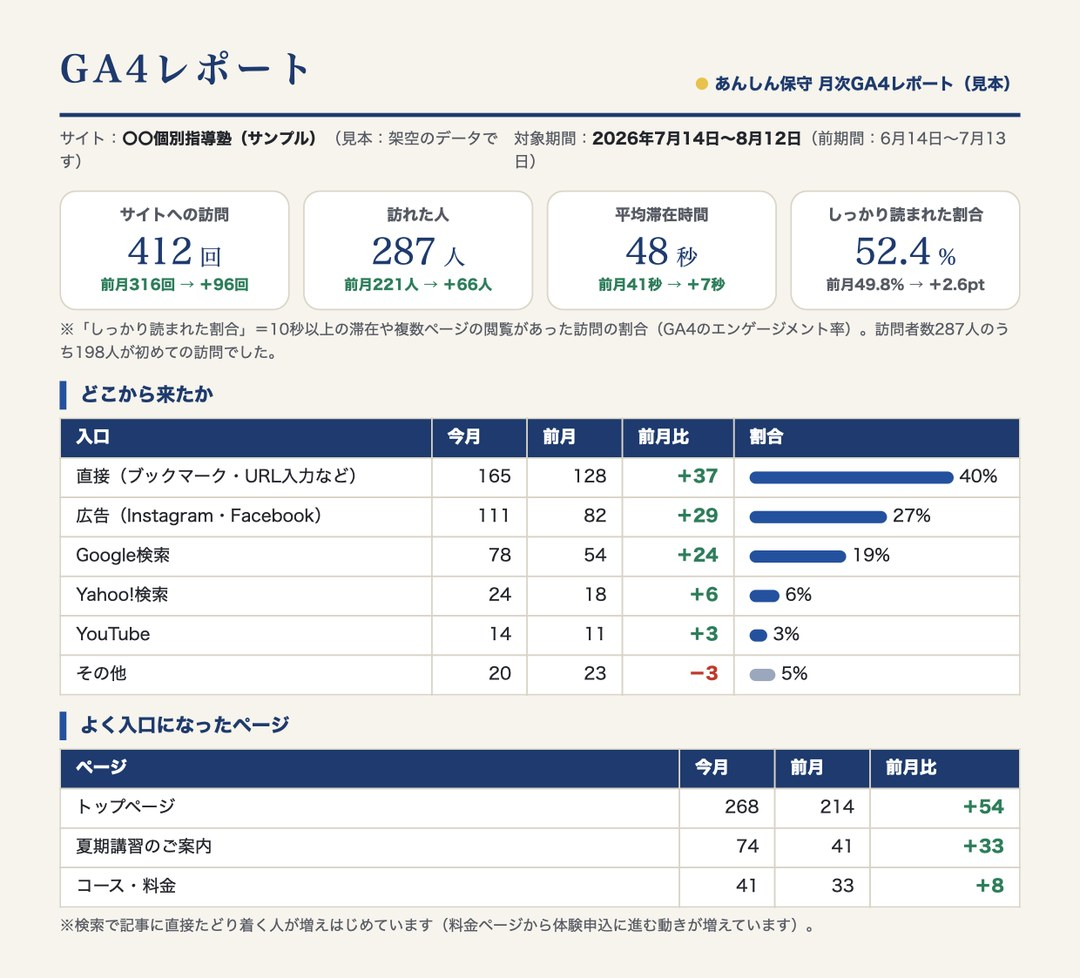
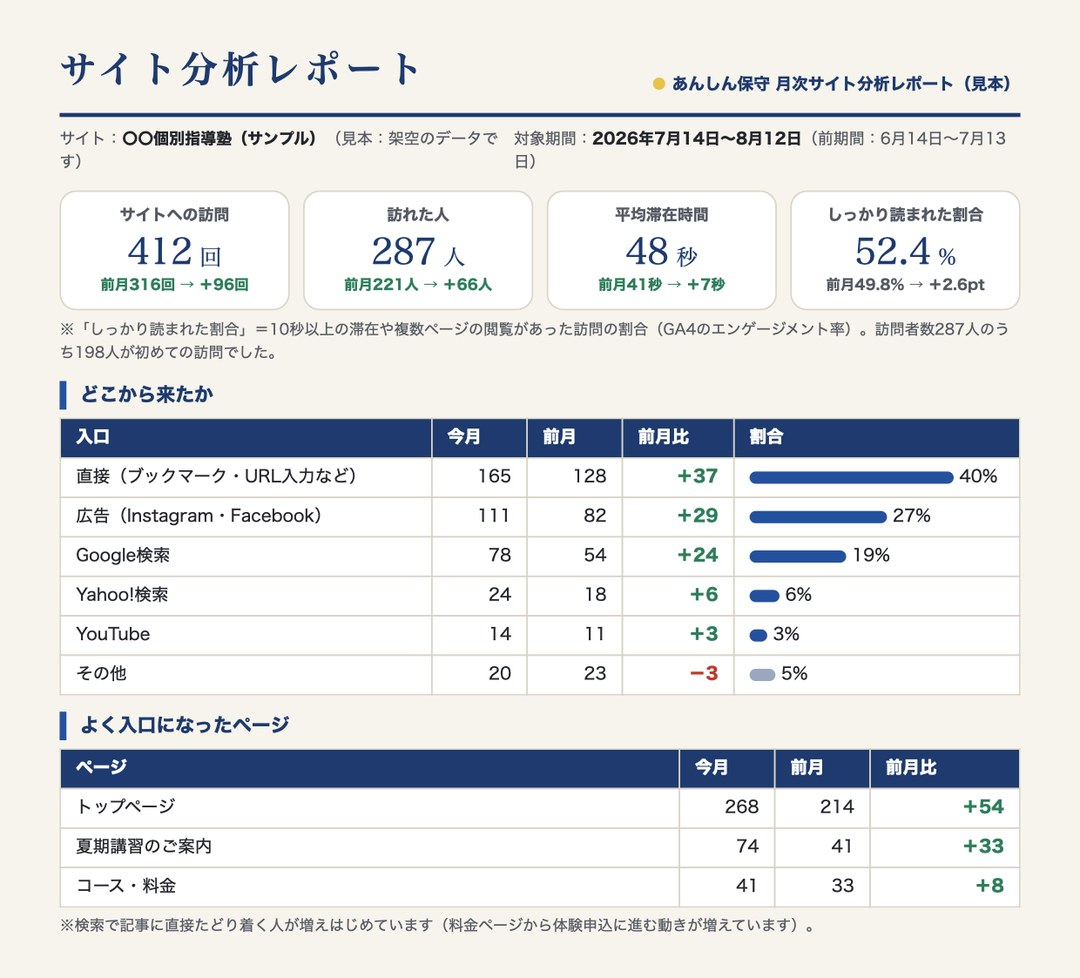
change: AI検索対策（AIO）を独立ブロックにし、レポート名を「サイト分析レポート」に
サービス
- 03 に「AI検索対策（AIO）」を新設し、MEOと並列にした。
  02 Googleマップ対策（MEO）は元の内容に戻し、AIの話は03へ分離
- 04 公式LINE／05 AI活用 へ番号を繰り下げ。4項目になったので2×2グリッドに
- 「4つのサービス」という表現は、増減のたびに直しが要るので数に依存しない
  言い方へ変更。①の説明も「マップとAIで見つかる」に更新

呼称
- 「GA4レポート」は伝わらない可能性があるため「サイト分析レポート」に統一。
  料金カード・FAQ・構造化データ・見本画像の中身まで揃えた
- 「アクセス解析（GA4）の設定」は設定作業の話なので、そのまま残した

フォーム（Formspree mlgqoqaz・name属性13個）とGA4・Meta Pixelは変更なし。

Changed region(s): [[0.0611, 0.0307, 0.3361, 0.092], [0.6111, 0.0613, 0.825, 0.092], [0.3667, 0.0613, 0.3972, 0.092]]

diff --git a/index.html b/index.html
@@ -59,7 +59,7 @@
       "name": "ホームページ制作だけの依頼もできますか？",
       "acceptedAnswer": {
         "@type": "Answer",
-        "text": "はい、可能です。基本商品のスマ塾HP制作（既存HPリニューアル5万円〜／新規立ち上げ10万円・税別・買い切り・月額保守費0円）で、ホームページ制作のみのご依頼を承っています。Googleマップ対策・公式LINE・AI活用は、必要になったタイミングで追加できます。"
+        "text": "はい、可能です。基本商品のスマ塾HP制作（既存HPリニューアル5万円〜／新規立ち上げ10万円・税別・買い切り・月額保守費0円）で、ホームページ制作のみのご依頼を承っています。Googleマップ対策・AI検索対策・公式LINE・AI活用は、必要になったタイミングで追加できます。"
       }
     },
     {
@@ -75,7 +75,7 @@
       "name": "公開後のサポートはありますか？",
       "acceptedAnswer": {
         "@type": "Answer",
-        "text": "公開後30日間は、表示の不具合など制作に起因する修正を無償で承ります。それ以降は、月額1,980円（税別）の「あんしん保守」で、毎月のGA4レポート・ドメイン更新の代行・毎日の死活監視・月次バックアップ・軽微な修正（月1回・15分以内）を継続してお引き受けします。大きめの改修は、都度お見積りいたします。あんしん保守は任意です。ご利用がなくても、ホームページの機能はそのままお使いいただけます。"
+        "text": "公開後30日間は、表示の不具合など制作に起因する修正を無償で承ります。それ以降は、月額1,980円（税別）の「あんしん保守」で、毎月のサイト分析レポート・ドメイン更新の代行・毎日の死活監視・月次バックアップ・軽微な修正（月1回・15分以内）を継続してお引き受けします。大きめの改修は、都度お見積りいたします。あんしん保守は任意です。ご利用がなくても、ホームページの機能はそのままお使いいただけます。"
       }
     },
     {
@@ -88,10 +88,10 @@
     },
     {
       "@type": "Question",
-      "name": "Googleマップ対策（MEO）では何をしてもらえますか？",
+      "name": "Googleマップ対策（MEO）・AI検索対策では何をしてもらえますか？",
       "acceptedAnswer": {
         "@type": "Answer",
-        "text": "Googleビジネスプロフィールの初期整備（塾名・住所・営業時間・写真・カテゴリの最適化）、ホームページとの情報統一、口コミを集める導線づくり、投稿の運用サポートを行います。「地域名＋塾」で探す保護者に見つけてもらうための土台を整えます。"
+        "text": "Googleビジネスプロフィールの初期整備（塾名・住所・営業時間・写真・カテゴリの最適化）、ホームページとの情報統一、口コミを集める導線づくり、投稿の運用サポートを行います。あわせて、ChatGPTなどのAI検索で塾の情報が正しく読み取られるよう、料金・対象学年・住所・営業時間を文字として明示する整理と、AI検索での見え方の定期確認も行います。「地域名＋塾」で探す保護者にも、AIに聞く保護者にも見つけてもらうための土台を整えます。"
       }
     },
     {
@@ -118,7 +118,7 @@
   "@context": "https://schema.org",
   "@type": "ProfessionalService",
   "name": "スマ塾",
-  "description": "個人塾・地域密着塾専門のWeb支援サービス。ホームページ制作・Googleマップ対策（MEO）・公式LINE・AI活用をまとめて支援します。",
+  "description": "個人塾・地域密着塾専門のWeb支援サービス。ホームページ制作・Googleマップ対策（MEO）・AI検索対策（AIO）・公式LINE・AI活用をまとめて支援します。",
   "url": "https://smart-juku.syuni.jp/",
   "image": "https://smart-juku.syuni.jp/assets/ogp.png",
   "areaServed": "JP",
@@ -130,7 +130,7 @@
   },
   "offers": [
     { "@type": "Offer", "name": "スマ塾HP制作", "priceCurrency": "JPY", "price": "50000", "priceSpecification": { "@type": "PriceSpecification", "valueAddedTaxIncluded": false }, "description": "買い切り・月額保守費0円。既存HPリニューアル5万円〜／新規立ち上げ10万円（税別）。管理画面から塾自身が更新できます。" },
-    { "@type": "Offer", "name": "あんしん保守", "priceCurrency": "JPY", "price": "1980", "priceSpecification": { "@type": "PriceSpecification", "valueAddedTaxIncluded": false }, "description": "月額1,980円（税別）・任意の追加サービス。毎月のGA4レポート、ドメイン更新の代行と期限管理、毎日の死活監視（表示・SSL）、月次バックアップ、軽微な修正の代行（月1回・15分以内）、不具合時の優先対応。" },
+    { "@type": "Offer", "name": "あんしん保守", "priceCurrency": "JPY", "price": "1980", "priceSpecification": { "@type": "PriceSpecification", "valueAddedTaxIncluded": false }, "description": "月額1,980円（税別）・任意の追加サービス。毎月のサイト分析レポート、ドメイン更新の代行と期限管理、毎日の死活監視（表示・SSL）、月次バックアップ、軽微な修正の代行（月1回・15分以内）、不具合時の優先対応。" },
     { "@type": "Offer", "name": "集客原稿サポート", "priceCurrency": "JPY", "price": "9800", "priceSpecification": { "@type": "PriceSpecification", "valueAddedTaxIncluded": false }, "description": "月額9,800円（税別）・任意の追加サービス。ブログ原稿・GBP投稿文・FAQ回答案などの原稿を提供し、塾が管理画面から自分で投稿するプラン。" },
     { "@type": "Offer", "name": "地域集客運用", "priceCurrency": "JPY", "price": "19800", "priceSpecification": { "@type": "PriceSpecification", "valueAddedTaxIncluded": false }, "description": "月額19,800円（税別）・任意の追加サービス。原稿提供に加え、HPへの月1回まとめ更新やGoogleビジネスプロフィール運用まで、スマ塾が反映を代行するプラン。" }
   ]
@@ -326,7 +326,7 @@ section{padding:110px 0}
 .svc-price .n small{font-size:.5em}
 .svc-price .u{font-size:.88rem;font-weight:700;margin-top:6px}
 .svc-price .note{font-size:.78rem;color:var(--ink-soft);margin-top:14px}
-.svc-rest{display:grid;grid-template-columns:repeat(3,1fr);gap:48px;margin-top:64px}
+.svc-rest{display:grid;grid-template-columns:repeat(2,1fr);gap:48px 56px;margin-top:64px}
 .svc-item{border-top:1.5px solid var(--ink);padding-top:26px}
 .svc-item h3{font-family:var(--serif);font-weight:700;font-size:1.28rem;margin:14px 0 4px;letter-spacing:.04em}
 .svc-item p.desc{margin:10px 0 18px;font-size:.88rem;color:var(--ink-soft)}
@@ -403,7 +403,7 @@ section{padding:110px 0}
 .price-sub-title{font-family:var(--serif);font-weight:700;font-size:clamp(1.25rem,2.6vw,1.55rem);line-height:1.7;letter-spacing:.03em}
 .addon-grid{display:grid;grid-template-columns:1fr 1fr;gap:24px;align-items:stretch}
 .addon-grid--3{grid-template-columns:repeat(3,1fr);gap:20px}
-/* GA4レポートの見本。数字を読ませるのではなく「毎月これが届く」を伝える大きさ */
+/* サイト分析レポートの見本。数字を読ませるのではなく「毎月これが届く」を伝える大きさ */
 .ga4-sample{margin:44px auto 0;max-width:540px;text-align:center}
 .ga4-sample img{width:100%;height:auto;border:1px solid var(--line);border-radius:10px;box-shadow:0 14px 34px rgba(34,37,43,.13);display:block}
 .ga4-sample figcaption{margin-top:14px;font-size:.78rem;line-height:1.9;color:var(--ink-soft);text-align:left}
@@ -678,7 +678,7 @@ footer{background:var(--ink);color:rgba(247,244,237,.78);padding:64px 0 34px;fon
       <div class="sec-head rv">
         <p class="sec-label">スマ塾ができること</p>
         <h2 class="sec-title">塾の「Web担当」を、<br>まるごと引き受けます。</h2>
-        <p class="sec-lede">入口はホームページ制作。そこから必要に応じて、<b>Googleマップ対策・公式LINE・AI活用まで</b>広げられます。全部まとめてでも、ひとつずつでも大丈夫です。</p>
+        <p class="sec-lede">入口はホームページ制作。そこから必要に応じて、<b>Googleマップ対策・AI検索対策・公式LINE・AI活用まで</b>広げられます。全部まとめてでも、ひとつずつでも大丈夫です。</p>
       </div>
       <div class="svc-feature rv">
         <span class="tag">まずはここから</span>
@@ -712,7 +712,17 @@ footer{background:var(--ink);color:rgba(247,244,237,.78);padding:64px 0 34px;fon
           </ul>
         </div>
         <div class="svc-item rv rv-d1">
-          <div class="svc-idx"><span class="n">03</span><span class="cat">公式LINE</span></div>
+          <div class="svc-idx"><span class="n">03</span><span class="cat">AI検索</span></div>
+          <h3>AI検索対策<span style="font-size:.6em;font-weight:500">（AIO）</span></h3>
+          <p class="desc">ChatGPTなどのAIに「◯◯市でおすすめの塾は？」と聞いて候補を絞る保護者が出てきました。AIが塾の情報を正しく読み取れる状態にしておきます。</p>
+          <ul class="svc-ul">
+            <li>料金・対象学年・住所・営業時間を、AIが読める文字情報として明示</li>
+            <li>よくある質問を、AIが答えの根拠に使える形で掲載</li>
+            <li>AI検索での見え方を定期的に確認し、古い情報や誤りが出ていないかをチェック</li>
+          </ul>
+        </div>
+        <div class="svc-item rv rv-d2">
+          <div class="svc-idx"><span class="n">04</span><span class="cat">公式LINE</span></div>
           <h3>公式LINEの導入・連携</h3>
           <p class="desc">電話は重い、メールは開かれない。保護者がいちばん使うLINEを、問い合わせと連絡の入口にします。</p>
           <ul class="svc-ul">
@@ -722,8 +732,8 @@ footer{background:var(--ink);color:rgba(247,244,237,.78);padding:64px 0 34px;fon
             <li>メニュー画面・自動応答の基本設定</li>
           </ul>
         </div>
-        <div class="svc-item rv rv-d2">
-          <div class="svc-idx"><span class="n">04</span><span class="cat">AI活用</span></div>
+        <div class="svc-item rv rv-d3">
+          <div class="svc-idx"><span class="n">05</span><span class="cat">AI活用</span></div>
           <h3>AI活用サポート</h3>
           <p class="desc">「AIが気になるけど、何から始めれば…」に応えます。難しい設定は不要。塾の実務でそのまま使える形にしてお渡しします。</p>
           <ul class="svc-ul">
@@ -740,9 +750,9 @@ footer{background:var(--ink);color:rgba(247,244,237,.78);padding:64px 0 34px;fon
   <section class="synergy">
     <div class="wrap">
       <div class="syn-box rv">
-        <h3>4つのサービスは、バラバラではありません。<br><em>「見つかる → つながる → 通いたくなる → 続く」</em>の一本の流れです。</h3>
+        <h3>これらのサービスは、バラバラではありません。<br><em>「見つかる → つながる → 通いたくなる → 続く」</em>の一本の流れです。</h3>
         <div class="syn-flow">
-          <div class="syn-step"><span class="k">①</span><h4>マップで見つかる</h4><p>「地域名＋塾」で探す保護者に、まずGoogleマップで見つけてもらう。</p></div>
+          <div class="syn-step"><span class="k">①</span><h4>マップとAIで見つかる</h4><p>「地域名＋塾」で探す保護者にも、AIに聞く保護者にも、まず見つけてもらう。</p></div>
           <div class="syn-step"><span class="k">②</span><h4>HPで信頼される</h4><p>最新の講習案内・合格実績・塾長の人柄が伝わるHPで「相談してよさそう」に。</p></div>
           <div class="syn-step"><span class="k">③</span><h4>LINEでつながる</h4><p>気軽なLINEの入口で、問い合わせの一歩手前の保護者を逃さない。</p></div>
           <div class="syn-step"><span class="k">④</span><h4>AIで発信が続く</h4><p>告知・ブログ・連絡文面をAIで時短。「更新が止まる」を仕組みで防ぐ。</p></div>
@@ -860,7 +870,7 @@ footer{background:var(--ink);color:rgba(247,244,237,.78);padding:64px 0 34px;fon
             <div class="p-price"><span class="n">1,980<span style="font-size:.4em">円</span></span><span class="u">/ 月（税別）</span></div>
             <p class="quote">作ったあと、見ていてくれる人がいるだけで違う。そう思う塾へ。</p>
             <ul>
-              <li>毎月のGA4レポート（A4×2枚・前月比つき）</li>
+              <li>毎月のサイト分析レポート（A4×2枚・前月比つき）</li>
               <li>ドメイン更新の代行と期限管理</li>
               <li>毎日の死活監視（表示・SSL）</li>
               <li>月次バックアップ</li>
@@ -902,8 +912,8 @@ footer{background:var(--ink);color:rgba(247,244,237,.78);padding:64px 0 34px;fon
           </div>
         </div>
         <figure class="ga4-sample rv">
-          <img src="assets/ga4-report-sample.jpg" alt="あんしん保守で毎月お届けするGA4レポートの見本。訪問数・訪れた人・平均滞在時間・しっかり読まれた割合の4指標と、流入元・入口ページの表が並ぶ" loading="lazy" decoding="async">
-          <figcaption>あんしん保守でお届けする月次レポートの見本（A4×2枚）。数字の横に前月比と読み方の注記を添えるので、見て意味が分かる形でお渡しします。※画像はサンプルサイトの見本で、数値は架空のものです。</figcaption>
+          <img src="assets/ga4-report-sample.jpg" alt="あんしん保守で毎月お届けするサイト分析レポートの見本。訪問数・訪れた人・平均滞在時間・しっかり読まれた割合の4指標と、流入元・入口ページの表が並ぶ" loading="lazy" decoding="async">
+          <figcaption>あんしん保守でお届けするサイト分析レポートの見本（A4×2枚）。数字の横に前月比と読み方の注記を添えるので、見て意味が分かる形でお渡しします。※画像はサンプルサイトの見本で、数値は架空のものです。</figcaption>
         </figure>
 
         <p class="price-foot rv">※価格はすべて税別です。／<b>月額サポートはすべて任意です。ご利用なし（0円）でも、ホームページの機能はそのまま使えます。</b>／表示価格は2026年8月時点のものです。</p>
@@ -1067,7 +1077,7 @@ footer{background:var(--ink);color:rgba(247,244,237,.78);padding:64px 0 34px;fon
       <div class="faq-list">
         <details class="rv" open>
           <summary>ホームページ制作だけの依頼もできますか？</summary>
-          <div class="ans"><p>はい、可能です。基本商品のスマ塾HP制作（既存HPリニューアル5万円〜／新規立ち上げ10万円・税別・買い切り・月額保守費0円）で、ホームページ制作のみのご依頼を承っています。Googleマップ対策・公式LINE・AI活用は、必要になったタイミングで追加できます。</p></div>
+          <div class="ans"><p>はい、可能です。基本商品のスマ塾HP制作（既存HPリニューアル5万円〜／新規立ち上げ10万円・税別・買い切り・月額保守費0円）で、ホームページ制作のみのご依頼を承っています。Googleマップ対策・AI検索対策・公式LINE・AI活用は、必要になったタイミングで追加できます。</p></div>
         </details>
         <details class="rv">
           <summary>今あるホームページのリニューアルにも対応していますか？</summary>
@@ -1075,15 +1085,15 @@ footer{background:var(--ink);color:rgba(247,244,237,.78);padding:64px 0 34px;fon
         </details>
         <details class="rv">
           <summary>公開後のサポートはありますか？</summary>
-          <div class="ans"><p>公開後30日間は、表示の不具合など制作に起因する修正を無償で承ります。それ以降は、月額1,980円（税別）の「あんしん保守」で、毎月のGA4レポート・ドメイン更新の代行・毎日の死活監視・月次バックアップ・軽微な修正（月1回・15分以内）を継続してお引き受けします。大きめの改修は、都度お見積りいたします。あんしん保守は任意です。ご利用がなくても、ホームページの機能はそのままお使いいただけます。</p></div>
+          <div class="ans"><p>公開後30日間は、表示の不具合など制作に起因する修正を無償で承ります。それ以降は、月額1,980円（税別）の「あんしん保守」で、毎月のサイト分析レポート・ドメイン更新の代行・毎日の死活監視・月次バックアップ・軽微な修正（月1回・15分以内）を継続してお引き受けします。大きめの改修は、都度お見積りいたします。あんしん保守は任意です。ご利用がなくても、ホームページの機能はそのままお使いいただけます。</p></div>
         </details>
         <details class="rv">
           <summary>パソコンが苦手でも更新できますか？</summary>
           <div class="ans"><p>はい。お知らせ・ブログ・料金表・合格実績・成績事例・FAQ・画像は、管理画面から専門知識なしで更新できます。更新マニュアルもお渡しします。何を書けばよいか迷う場合は集客原稿サポート（月9,800円・税別）で原稿をご用意でき、反映まで任せたい場合は地域集客運用（月19,800円・税別）で更新代行も可能です。触ること自体が不安な場合は、あんしん保守（月1,980円・税別）で軽微な修正の代行と死活監視をお引き受けします。</p></div>
         </details>
         <details class="rv">
-          <summary>Googleマップ対策（MEO）では何をしてもらえますか？</summary>
-          <div class="ans"><p>Googleビジネスプロフィールの初期整備（塾名・住所・営業時間・写真・カテゴリの最適化）、ホームページとの情報統一、口コミを集める導線づくり、投稿の運用サポートを行います。「地域名＋塾」で探す保護者に見つけてもらうための土台を整えます。</p></div>
+          <summary>Googleマップ対策（MEO）・AI検索対策では何をしてもらえますか？</summary>
+          <div class="ans"><p>Googleビジネスプロフィールの初期整備（塾名・住所・営業時間・写真・カテゴリの最適化）、ホームページとの情報統一、口コミを集める導線づくり、投稿の運用サポートを行います。あわせて、ChatGPTなどのAI検索で塾の情報が正しく読み取られるよう、料金・対象学年・住所・営業時間を文字として明示する整理と、AI検索での見え方の定期確認も行います。「地域名＋塾」で探す保護者にも、AIに聞く保護者にも見つけてもらうための土台を整えます。</p></div>
         </details>
         <details class="rv">
           <summary>AI活用のサポートは具体的に何をしてくれますか？</summary>
